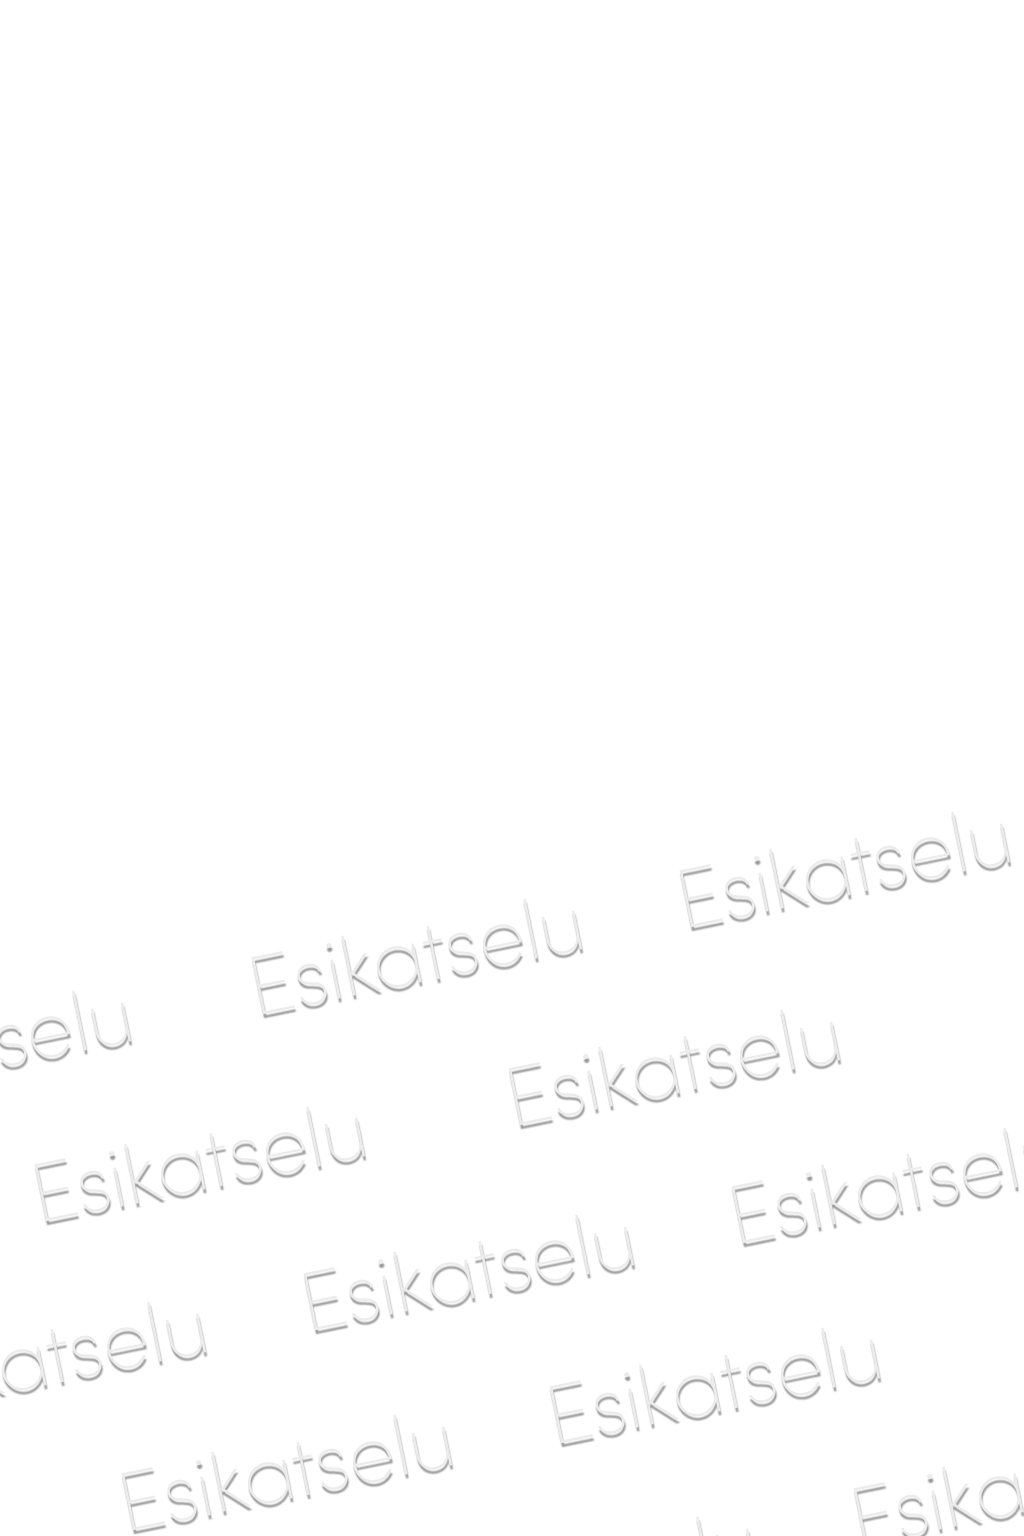
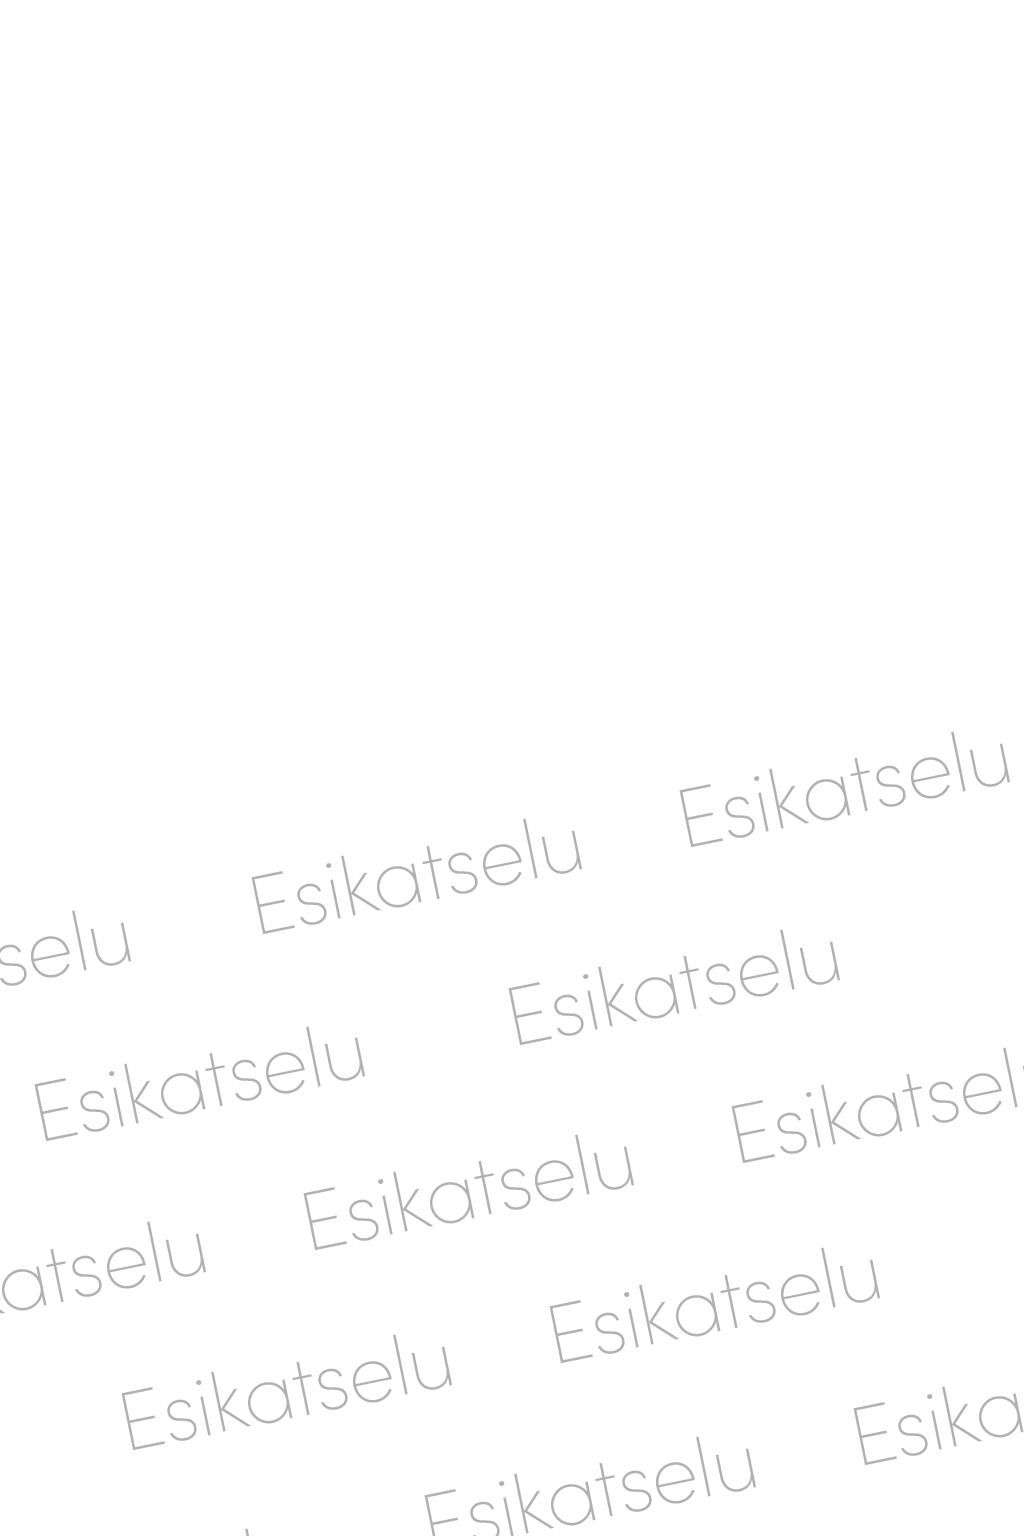
watermark

diff --git a/src/pages/api/generate.ts b/src/pages/api/generate.ts
@@ -324,9 +324,9 @@ Pose and Composition: The dog is posed in a classic, dignified studio sit, head 
     }
     if (pngBuffer) {
       const watermarkPngBuffer = await sharp(pngBuffer)
-        .resize({ width: Math.floor(width * 0.8) })
+        .resize({ width }) // 100 % kuvan leveys
         .toBuffer();
-      compositeLayers.push({ input: watermarkPngBuffer, gravity: 'center' });
+      compositeLayers.push({ input: watermarkPngBuffer, gravity: 'south' }); // alareunaan
     }
 
     const watermarkedBuffer = await sharp(cleanBuffer)
